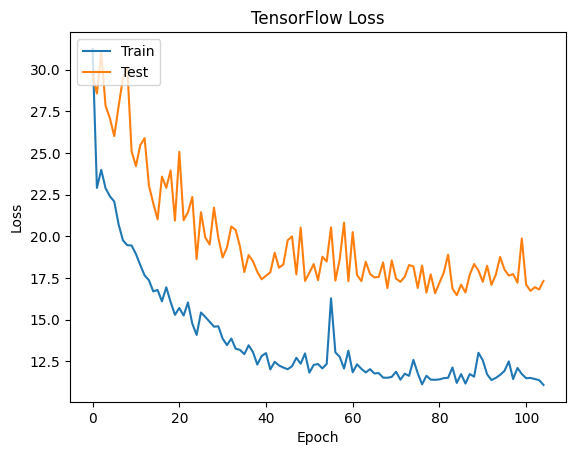
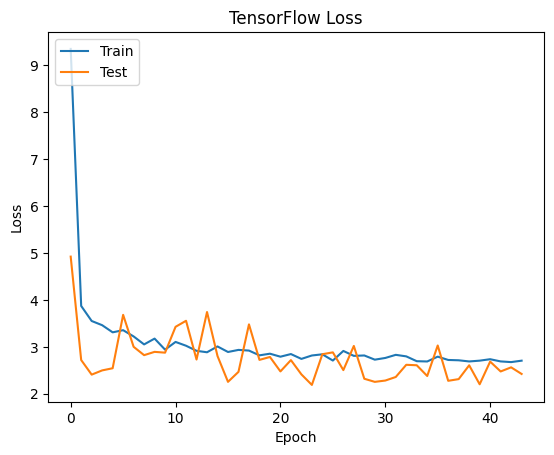
GRP writing: New patch antenna, new figures, more about sklearn performance

diff --git a/grp/report/report.tex b/grp/report/report.tex
@@ -38,13 +38,15 @@ Antenna designs require simulation in order to determine the performance of the 
 
 
 \subsection{Dataset}
-The dataset that was used to train and test the machine learning models was generated from a parametric sweep of a Leaky Wave Antenna. The seven features of the dataset include Feed Gap (mm), Feed Inset (cm), Feed Width (cm), Ground Gap (mm), Pad Length (cm), Pad Width (cm), and Frequency (GHz). All of the features except the frequency represent a part of the antenna's geometry. Each of the features were paired with a label, which is a S11 value. 
+Two datasets were used to train and test the machine learning models. Both datasets were generated from a parametric sweep of the antenna. The two antennas that were used were a patch antenna and a leaky wave antenna. The seven features of the patch antenna dataset contained inset\_dist, L, sub\_thick, W, W0, y0, and Freq, with all measurements being in millimeters except frequency being GHz. The seven features of the leaky wave antenna dataset include Feed\_Gap (mm), Feed\_Inset (cm), Feed\_W (cm), Ground\_gap (mm), Pad\_L (cm), Pad\_W (cm), and Freq (GHz). All of the features except the frequency represent a part of the antenna's geometry. Each of the features were paired with a label, which is a S11 value. 
 
 
 \subsection{Simulation Issues}
 The main issue with running simulations in HFSS is the amount of time that it takes. The matrix operations that are required to run many iterations of simulations to analyze loss can take multiple days to complete~\cite{john_antenna_2009}. Depending on how the simulation is set up, this process could be impacted by power outages or software bugs, resulting in a loss of data and requiring manual intervention to re-run the simulation. 
 
 HFSS works by specifying a range of dimensions and outputting performance metrics, such as S11 values. This is insightful, but there is a degree of trial and error involved in finding an optimal antenna geometry. One would start by specifying what they would think would be the ideal antenna geometry using their own intuition. Based on the results from an initial simulation run, geometry values would be adjusted in an attempt to optimize the geometry.
+
+TODO write number of geometries and time taken from the patch antenna in addition to the leaky wave antenna
 
 By using a machine learning algorithm to do the bulk of the investigative work, the amount of simulation iterations that need to be run to optimize an antenna's geometry can be significantly reduced. By training the model on the 21 geometries, frequencies, and S11 values, permutations of more geometries and frequencies can be generated and new S11 values can be predicted. These predictions can be searched, making it easier and quicker to narrow down to a specific area of interest without having to wait for simulations to run.
 
@@ -60,6 +62,8 @@ TODO ADD MORE
 
 
 \section{Methodology}
+TODO write about patch antenna in addition to leaky wave antenna in terms of num of rows and such 
+
 In order to determine the optimal antenna geometry, a machine learning algorithm was employed. This algorithm is trained with a supervised learning method using the parametric sweep dataset for the antenna geometry. Because the data is generated from a parametric sweep, it contains many different combinations of geometries. Out of the 4,221 rows, there were 21 unique geometries that each had a simulated S11 value for the same frequency range between 2 to 20. Generating all the permutations of geometries and frequencies added up to a total of 555 unique geometries, which includes the original 21. The real S11 values are used for the original 21, but predictions are generated for the rest of the geometry and frequency combinations. This new dataset includes a total of 111,555 rows. These values aid in providing a better guess of an optimal geometry for a specfiied S11 and frequency range, helping optimize the antenna faster. 
 
 \subsection{Analyzing the Data}
@@ -101,7 +105,7 @@ The hyperparameters of the DNN were tuned in an attempt to both improve the accu
 
 
 \subsection{Scikit-learn}
-Scikit-learn is another popular machine learning library where the typical use case is smaller datasets with feature extraction already having been performed. There are a multitude of regression models provided by Scikit-learn. The models that were analyzed in this test were RandomForestRegressor, GradientBoostingRegressor, AdaBoostRegressor, SVR, CatBoostRegressor, KernelRidge, XGBRegressor, and DecisionTreeRegressor.
+Scikit-learn is another popular machine learning library where the typical use case is smaller datasets with feature extraction already having been performed. There are a multitude of regression models provided by Scikit-learn. The models that were analyzed in this test were RandomForestRegressor, GradientBoostingRegressor, AdaBoostRegressor, SVR, CatBoostRegressor, XGBRegressor, and DecisionTreeRegressor.
 
 Similarly to with TensorFlow, a randomized search was used to determine the best hyperparameters for each model's use case. Once the optimization was performed, all of the best models had their performance compared using the same metrics. 
 
@@ -119,10 +123,10 @@ A GUI (graphical user interface) was created in order to make the process of fil
 
 
 \section{Results}
-\subsection{Library and Model Comparison with Leaky Wave Antenna}
-The Leaky Wave Antenna was used to test and compare the performance of models from the two different libraries: TensorFlow and Scikit-learn. The best performing model was chosen from each library, and their training time, predicting time, accuracy, and RMSE were compared in order to select the best model.
+\subsection{Library and Model Comparison with the Patch Antenna}
+The patch antenna was used to test and compare the performance of models from the two different libraries: TensorFlow and Scikit-learn. The best performing model was chosen from each library, and their training time, predicting time, accuracy, and RMSE were compared in order to select the best model.
 
-The Keras Tuner search for optimal hyperparameters of the DNN provided the results in Table~\ref{keras_best_params}. It found that the model performed best with the maximum number of layers out of the testing range, and the optimal learning rate was in the middle of the testing range. This DNN was only able to predict S11 values with an error tolerance of~$\pm$1 with a 31.75\% accuracy. This low accuracy gives the hint that this might not be the best model for the job.
+The Keras Tuner search for optimal hyperparameters of the DNN provided the results in Table~\ref{keras_best_params}. It found that the model performed best with the maximum number of layers out of the testing range, and the optimal learning rate was in the middle of the testing range. This DNN was only able to predict S11 values with an error tolerance of~$\pm$1dB with a 31.75\% accuracy. This low accuracy gives the hint that this might not be the best model for the job.
 
 \begin{table}[h]
 \caption{Keras Tuner Best Hyperparameters}
@@ -157,13 +161,39 @@ Figure~\ref{dnn_loss_graph} shows how the DNN's loss decreased as the number of 
     \label{dnn_loss_graph}
 \end{Figure}
 
-TODO insert tensorflow epoch vs accuracy +- 1 graph? 
+Each of the Scikit-learn regression models performed differently than one another. After performing a randomized search for the best hyperparameters for each type of model, the score of the best configuration of each model was reported alongside the $R^2$ and RMSE scores. Please see Table~\ref{comparing_sklearn} for a summary of the results. The table is sorted by best to worst performance by score, RMSE, and $R^2$. The goal is to have the highest accuracy and the lowest RMSE $R^2$. 
 
-TODO insert data about sklearn 
+It's clear by looking at the table that RandomForestRegressor is the best performing model. It has the highest accuracy and the lowest RMSE, which proves that its predictions had the least distance from the actual S11 values. When comparing TensorFlow to Scikit-learn, this is the model that will be used. 
 
-When comparing the TensorFlow and Scikit-learn libraries, the same random state was used when splitting the data into training and testing portions. This ensures that each library is given a fair chance with the same set of data and the data isn't being swayed unintentionally. 
+\begin{table}[h]
+\caption{Scikit\-learn Results}
+\begin{center}
+\begin{tabular}{ |c|c|c|c| }
+    \hline
+    Model Type & Accuracy within~$\pm$1dB & RMSE & $R^2$ \\ 
+    \hline
+    RandomForestRegressor & 0.9301 & 0.7652 & 0.9620 \\
+    \hline  
+    DecisionTreeRegressor & 0.9080 & 1.0764 & 0.9248 \\  
+    \hline
+    GradientBoostingRegressor & 0.9012 & 0.9950 & 0.9357 \\
+    \hline
+    CatBoostRegressor & 0.8969 & 0.9949 & 0.9358 \\    
+    \hline
+    XGBRegressor & 0.8942 & 1.0467 & 0.9289 \\  
+    \hline
+    AdaBoostRegressor & 0.8526 & 1.1924 & 0.9077 \\  
+    \hline
+    SVR & 0.6717 & 2.7252 & 0.5180 \\  
+    \hline
+\end{tabular}
+\end{center}
+\label{comparing_sklearn}
+\end{table}
 
-It's clear from the Table~\ref{comparing_libraries} that Scikit-learn is the best choice of library for this problem. The Scikit-learn model performed with 28.42\% better accuracy when predicting values with a tolerance of~$\pm$1. It trains and predicts significantly faster, and it has a lower RMSE.
+When comparing the TensorFlow and Scikit-learn libraries, the same random state was used when splitting the data into training and testing portions. This ensures that each library is given a fair chance with the same set of data and the data isn't being swayed unintentionally. The TensorFlow model had 500 epochs, but only used 44 of them due to the early stopping criteria that was set. 
+
+It's clear from the Table~\ref{comparing_libraries} that Scikit-learn is the best choice of library for this problem. The Scikit-learn model performed with 28.42\% better accuracy when predicting values with a tolerance of~$\pm$1dB. It trains and predicts significantly faster, and it has a lower RMSE.
 
 \begin{table}[h]
 \caption{Comparing Libraries}
@@ -172,33 +202,49 @@ It's clear from the Table~\ref{comparing_libraries} that Scikit-learn is the bes
     \hline
     Model Type & TensorFlow & Scikit-learn \\ 
     \hline
-    Training Time (ms) & 25500 & 8.2 \\  
+    Training Time (s) & 67.0 & 32.7 \\  
     \hline
-    Predicting Time (ms) & 86.7 & 3.65 \\
+    Predicting Time (s) & 0.327 & 2.17 \\
     \hline
-    S11 Accuracy within~$\pm$1 & 0.3175 & 0.60166 \\
+    S11 Accuracy within~$\pm$1dB & 0.7757 & 0.9301 \\
     \hline
-    RMSE & 16.7987 & 9.4661 \\
+    RMSE & 2.2026 & 0.7652 \\
     \hline
 \end{tabular}
 \end{center}
 \label{comparing_libraries}
 \end{table}
 
-Figure~\ref{histogram_of_error} shows how the Sklearn model had lower error between the predicted S11 values and the actual S11 values than the TensorFlow model. The TensorFlow model tended to make predictions that were lower than the actual values. Additionally, Figure~\ref{actual_vs_predicted_s11} demonstrates how the S11 predictions were closer to the actual values, which is depicted by the diagonal line, for the Sklearn model. The TensorFlow model had trouble predicting thet outliers. 
+Figure~\ref{histogram_of_error_patch} shows how the Sklearn model had lower error between the predicted S11 values and the actual S11 values than the TensorFlow model for the patch antenna. The TensorFlow model tended to make predictions that were lower than the actual values. Additionally, Figure~\ref{actual_vs_predicted_s11_patch} demonstrates how the S11 predictions were closer to the actual values, which is depicted by the diagonal line, for the Sklearn model. The TensorFlow model had trouble predicting thet outliers. 
 
 \begin{Figure}
     \centering
-    \includegraphics[width=2.5in]{histogram}
-    \captionof{figure}{Histogram of Error}
-    \label{histogram_of_error}
+    \includegraphics[width=2.5in]{histogram_patch}
+    \captionof{figure}{Histogram of Error for Patch Antenna}
+    \label{histogram_of_error_patch}
 \end{Figure}
 
 \begin{Figure}
     \centering
-    \includegraphics[width=2.5in]{actual_vs_predicted_s11}
-    \captionof{figure}{Actual vs Predicted S11}
-    \label{actual_vs_predicted_s11}
+    \includegraphics[width=2.5in]{actual_vs_predicted_s11_patch}
+    \captionof{figure}{Actual vs Predicted S11 for Patch Antenna}
+    \label{actual_vs_predicted_s11_patch}
+\end{Figure}
+
+Figures~\ref{histogram_of_error_leaky_wave} and~\ref{actual_vs_predicted_s11_leaky_wave} show how the results for the leaky wave antenna are similar to those of the patch antenna. The leaky wave antenna was trained on significantly fewer geometries, and both figures show how the models were predicting with less accuracy for both Scikit-learn and Tensorflow. However, this does prove that Scikit-learn performed better for both antenna configurations.
+
+\begin{Figure}
+    \centering
+    \includegraphics[width=2.5in]{histogram_leaky_wave}
+    \captionof{figure}{Histogram of Error for Leaky Wave Antenna}
+    \label{histogram_of_error_leaky_wave}
+\end{Figure}
+
+\begin{Figure}
+    \centering
+    \includegraphics[width=2.5in]{actual_vs_predicted_s11_leaky_wave}
+    \captionof{figure}{Actual vs Predicted S11 for Leaky Wave Antenna}
+    \label{actual_vs_predicted_s11_leaky_wave}
 \end{Figure}
 
 \subsection{Testing with Completely Unseen Data}
